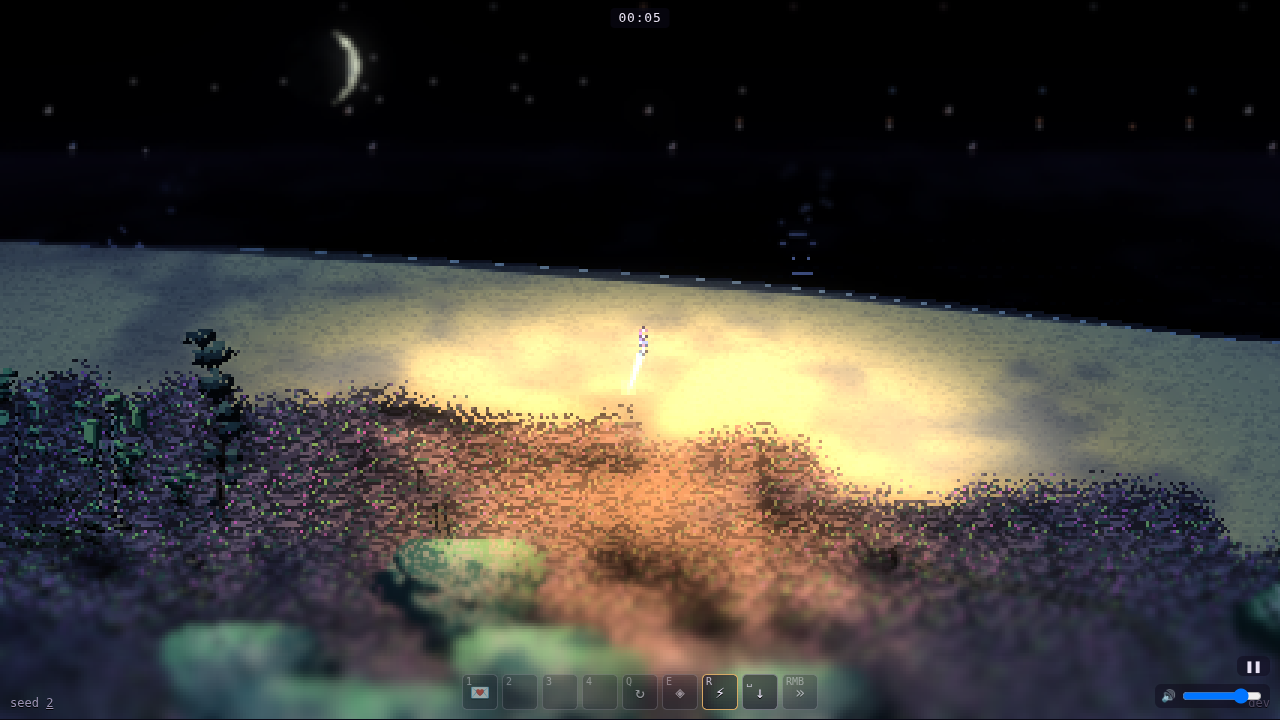
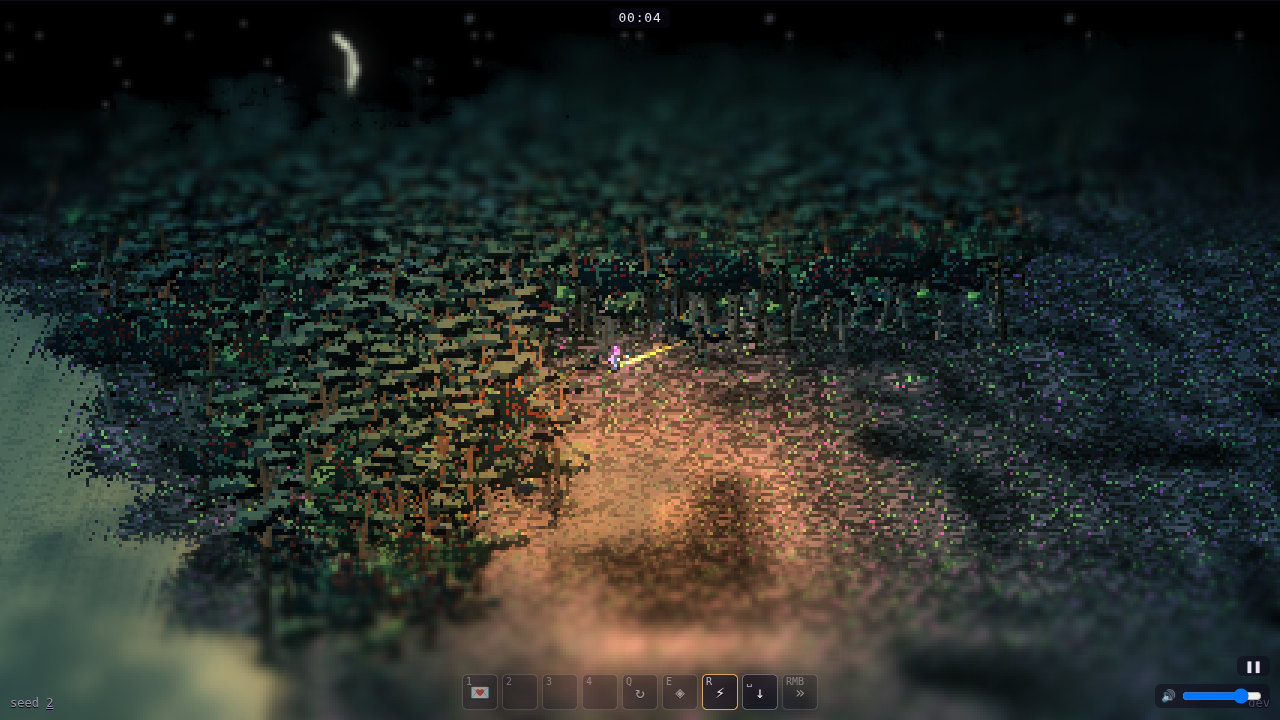
Stargazing on the beach, the world bends so the sky opens up over the sea (Ed)
Lying down, the bend eases up to beach.gazeBend (1.6) times the treetops' curve
over beach.gazeEase (1.5 s), and back as she gets up. tools/beach/gaze-gif.cjs
records it.

Claude-Session: https://claude.ai/code/session_01VpVux54r6d7xX8jYKXai88

diff --git a/src/rules/tuning.ts b/src/rules/tuning.ts
@@ -59,7 +59,7 @@ export interface Tuning {
   /** The map's shape (Ed, 2026-10-06: "circular rather than square, with a buffer zone with no runestones around the edge"): circle: the playable areas those within radius areas of home, a buffer ring buffer areas deep past them (forest she can fly over, nothing in it), her flight's edge soft over its last push metres (her outward speed easing to nothing, a drift of drift m/s back in), and the forest going on edge areas past it; square: mapAreas x mapAreas as before (?shape=square). */
   map?: { shape: "circle" | "square"; radius: number; buffer: number; push: number; drift: number; edge?: number; /** the coast's wobble (Ed, 2026-10-06: "slightly irregular"): rules/mapShape.ts makeCoast */ coast?: { amp: number; harmonics: number; detail: number } };
   /** The beach round the circular map (Ed, 2026-10-06: an Easter egg): sand the last width metres inside her flight's edge, the sea from shore metres past it; the hills eased over ease metres to sand metres high at the sand, down to sea at the water. Flying on out over the beach for restAfter seconds she lands and lies down to stargaze. witchChance of runs (every run) have spots[0] to spots[1] spots of witches (witches[0] to [1] each) spread round the beach; landing within meet metres of them and keeping still idleAfter seconds she chats, holds hands, hugs and stargazes with one, turn seconds each. Nothing of it is drawn, heard or stepped unless she's within shown metres of the sand (simRange of the witches). */
-  beach?: { on: boolean; width: number; shore: number; ease: number; sand: number; sea: number; restAfter: number; shown: number; witchChance: number; /** how many spots of witches round the coast (from, to), spread evenly with a seeded jitter */ spots?: number[]; witches: number[]; meet: number; idleAfter: number; turn: number; simRange: number };
+  beach?: { on: boolean; width: number; shore: number; ease: number; sand: number; sea: number; restAfter: number; shown: number; /** lying down to stargaze, the world bends this many times the treetops' curve, eased in over gazeEase seconds, so the sky shows */ gazeBend?: number; gazeEase?: number; witchChance: number; /** how many spots of witches round the coast (from, to), spread evenly with a seeded jitter */ spots?: number[]; witches: number[]; meet: number; idleAfter: number; turn: number; simRange: number };
   areaSize: number;
   areaScale: number;
   /** Each area's fighting arena: mostly open within radius metres of its centre and soundsystem, the woods thickening smoothly over a band band metres wide (both times fight.scale), its edge wobbled by noise (a share of the band); bushes and tufts: the share of the undergrowth and ground cover left in its open middle. */

diff --git a/src/render/view.ts b/src/render/view.ts
@@ -106,6 +106,9 @@ export class View {
   private heights: HeightField;
   /** The bend the view is easing to (the treetops' when she's rising or up there), for culling. */
   bendTo = 0;
+  /** How far the stargazing bend has eased in (0 to 1), and when it was last eased. */
+  private gaze = 0;
+  private gazeTime = NaN;
   /** How much each wave number shows over the bent horizon (eased), by its area, and when it was last eased. */
   numberSeen = new Map<string, number>();
   numbersAt = 0;
@@ -687,9 +690,17 @@ export class View {
     // The world's bend: only over the treetops (Ed, 2026-10-04), eased in as she rises; from the
     // camera's focus, along its forward on the ground.
     {
-      const C = t.camera.curve, m = Math.min(1, Math.max(0, g.witch.lift)), k = C.ground + (C.treetop - C.ground) * m * m * (3 - 2 * m);
+      const C = t.camera.curve, m = Math.min(1, Math.max(0, g.witch.lift));
+      // Lying on the beach to stargaze (Ed, 2026-10-06: "the bend shader applies so that you can see the sky"): the bend eased up
+      // past the treetops' over beach.gazeEase seconds, the night sky opening over the sea, and back down as she gets up.
+      const B = t.beach, gdt = Number.isNaN(this.gazeTime) ? 0 : Math.min(0.25, Math.max(0, time - this.gazeTime)), gz = g.witch.stargazing ? 1 : 0;
+      this.gazeTime = time;
+      this.gaze += (gz - this.gaze) * (1 - Math.exp(-gdt * 3 / Math.max(0.05, B?.gazeEase ?? 1.5)));
+      if (Math.abs(gz - this.gaze) < 0.001) this.gaze = gz;
+      const gk = this.gaze * this.gaze * (3 - 2 * this.gaze) * C.treetop * (B?.gazeBend ?? 0);
+      const k = Math.max(C.ground + (C.treetop - C.ground) * m * m * (3 - 2 * m), gk);
       HEIGHT_UNIFORMS.uBend.value.set(Math.max(0, k), pose.tx, pose.tz, t.ground.hills.on ? t.ground.hills.amplitude : 0); // (w: the hills' amplitude, for the horizon test)
-      this.bendTo = Math.max(0, g.witch.mode === "rising" || g.witch.mode === "treetop" ? C.treetop : C.ground);
+      this.bendTo = Math.max(0, g.witch.mode === "rising" || g.witch.mode === "treetop" ? C.treetop : C.ground, g.witch.stargazing ? C.treetop * (B?.gazeBend ?? 0) : 0);
       HEIGHT_UNIFORMS.uBendFwd.value.set(0, -1); // the camera always looks north (toward -z)
       const far = t.haze.far;
       this.sky.update(k, pose.tx, pose.tz, far, 2 * far * Math.tan((t.camera.fov * Math.PI) / 360) * (this.width / this.height), this.updateMoon(g));

diff --git a/config/KNOBS.md b/config/KNOBS.md
@@ -28,7 +28,7 @@ The map's shape (Ed, 2026-10-06: "The map as a whole should be circular rather t
 
 ## `beach`, `areaSize`, `areaScale`, `arena`, `areaSizeVariance`, `borderLayers`
 
-The beach (Ed, 2026-10-06: "Outside of the circular map, there is the sea. A beach surrounds the island, and the calm dark water reflects the sky. You can hear the sound of the waves. If you try and fly past the beach, you land and stargaze (the party lying down pose). Other witches can be found on the beach occasionally; if you land near them, you chat, hold hands, and hug. Try and do this in a way that doesn't cost performance - most games won't ever go to the beach, it's just an Easter egg for adventurers."): sand over the last width metres inside her flight's edge (nothing grows or stands on it), the sea from shore metres past the edge, the hills eased over ease metres down to sand metres high where the sand starts and to sea metres at the water. Flying on out over the sand for restAfter seconds she lands (from the treetops too) and lies down to stargaze; any other way gets her up. witchChance of runs (Ed, 2026-10-06: "I think there should always be beach witches, but there are only a handful spread around it": every run) have spots[0] to spots[1] spots spread round the coast (evenly, each nudged by up to a third of the gap), each with witches[0] to witches[1] witches (Ed, 2026-10-06: "Beach witches appear solo": one); landing within meet metres of them and keeping still for idleAfter seconds, one chats, holds hands, hugs and stargazes with her, turn seconds each. None of it is drawn or heard unless she's within shown metres of the sand, nor the witches stepped beyond simRange. on false: forest to the edge, as before.
+The beach (Ed, 2026-10-06: "Outside of the circular map, there is the sea. A beach surrounds the island, and the calm dark water reflects the sky. You can hear the sound of the waves. If you try and fly past the beach, you land and stargaze (the party lying down pose). Other witches can be found on the beach occasionally; if you land near them, you chat, hold hands, and hug. Try and do this in a way that doesn't cost performance - most games won't ever go to the beach, it's just an Easter egg for adventurers."): sand over the last width metres inside her flight's edge (nothing grows or stands on it), the sea from shore metres past the edge, the hills eased over ease metres down to sand metres high where the sand starts and to sea metres at the water. Flying on out over the sand for restAfter seconds she lands (from the treetops too) and lies down to stargaze; any other way gets her up. Lying there (Ed, 2026-10-06: "the bend shader applies so that you can see the sky") the world bends gazeBend times the treetops' curve, eased in and out over about gazeEase seconds, so the night sky opens up over the sea. witchChance of runs (Ed, 2026-10-06: "I think there should always be beach witches, but there are only a handful spread around it": every run) have spots[0] to spots[1] spots spread round the coast (evenly, each nudged by up to a third of the gap), each with witches[0] to witches[1] witches (Ed, 2026-10-06: "Beach witches appear solo": one); landing within meet metres of them and keeping still for idleAfter seconds, one chats, holds hands, hugs and stargazes with her, turn seconds each. None of it is drawn or heard unless she's within shown metres of the sand, nor the witches stepped beyond simRange. on false: forest to the edge, as before.
 
 | knob | type | range |
 |---|---|---|
@@ -39,6 +39,8 @@ The beach (Ed, 2026-10-06: "Outside of the circular map, there is the sea. A bea
 | `beach.sand` | number | 0 to … |
 | `beach.sea` | number |  |
 | `beach.restAfter` | number | 0 to … |
+| `beach.gazeBend` | number | 0 to … |
+| `beach.gazeEase` | number | 0 to … |
 | `beach.shown` | number | 0 to … |
 | `beach.witchChance` | number | 0 to … |
 | `beach.spots` | array of number |  |
